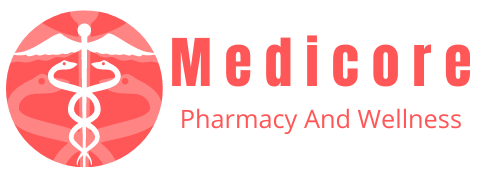
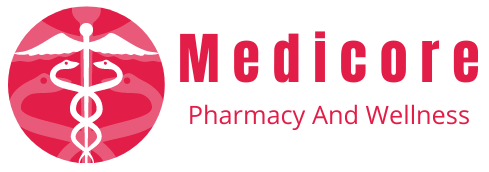
addMap

diff --git a/projects/client/src/Components/AuthForm/AuthForm.jsx b/projects/client/src/Components/AuthForm/AuthForm.jsx
@@ -1,20 +1,23 @@
 import { Formik } from 'formik';
 import React, { useEffect, useState } from 'react';
 import { LoginSchema, SignupSchema } from '../../utils/ValidationSchema';
-import { loginWithGoogleSlice, onLoginAsync, onRegister } from '../../Features/User/UserSlice';
+import {
+  loginWithGoogleSlice,
+  onLoginAsync,
+  onRegister,
+} from '../../Features/User/UserSlice';
 import { Link, Navigate, useNavigate } from 'react-router-dom';
 import { useDispatch, useSelector } from 'react-redux';
 import { FcGoogle } from 'react-icons/fc';
 import { Input } from './Input/Input';
 import { InputPassword } from './Input/InputPassword';
 
-
 // import { PhoneInput } from 'react-contact-number-input';
 
 export const AuthForm = (propss) => {
   const dispatch = useDispatch();
   const navigate = useNavigate();
-  const [isSubmitting, setIsSubmitting] = useState(false)
+  const [isSubmitting, setIsSubmitting] = useState(false);
   const key = process.env.REACT_APP_API_SECRET_KEY;
 
   useEffect(() => {
@@ -57,7 +60,7 @@ export const AuthForm = (propss) => {
       validationSchema={propss.isRegis ? SignupSchema : LoginSchema}
       onSubmit={async (values, { resetForm }) => {
         try {
-          setIsSubmitting(true)
+          setIsSubmitting(true);
           window.grecaptcha.ready(() => {
             window.grecaptcha
               .execute(key, { action: 'submit' })
@@ -69,11 +72,11 @@ export const AuthForm = (propss) => {
                 );
 
                 if (!propss.isRegis) {
-                  setIsSubmitting(false)
+                  setIsSubmitting(false);
                   if (isSuccess) return navigate('/');
                   resetForm();
                 } else {
-                  setIsSubmitting(false)
+                  setIsSubmitting(false);
                   if (isSuccess) return navigate('/login');
                 }
               });
@@ -178,29 +181,16 @@ export const AuthForm = (propss) => {
             {propss.isRegis ? 'Register' : 'Login'}
           </button>
           <div className="btnOther w-full text-[13px] font-bold ">
-            {/* <div className="font-bold rounded-xl py-[8px] w-full  border border-[#898989]  my-[10px] flex items-center">
-              <div
-                // onClick={() => {
-                //   dispatch(onLoginWithGoogle());
-                // }}
-                className="flex w-full justify-center gap-3 cursor-pointer"
-              >
-                <FcGoogle size={'24px'} />
-                <p>
-                  {propss.isRegis ? 'Sign up with ' : 'Sign in with  '}
-                  Google
-                </p>
-              </div>
-            </div> */}
-             <button
-             type='button'
+            <button
+              type="button"
               onClick={() => {
                 dispatch(loginWithGoogleSlice());
               }}
               className="btn btn-outline rounded-xl btn-secondary w-full"
             >
-              <FcGoogle size={25} /> {propss.isRegis ? 'Login with ' : 'Sign in with  '}
-                  Google
+              <FcGoogle size={25} />{' '}
+              {propss.isRegis ? 'Login with ' : 'Sign in with  '}
+              Google
             </button>
           </div>
         </form>

diff --git a/projects/client/src/Components/Layout/Sidebar.jsx b/projects/client/src/Components/Layout/Sidebar.jsx
@@ -1,7 +1,7 @@
 import { Link, useNavigate } from 'react-router-dom';
 import { useDispatch, useSelector } from 'react-redux';
 import { logoutAsync, onSaveUser } from '../../Features/User/UserSlice';
-import Logo from '../../utils/images/logoHealthyMed.svg';
+import Logo from '../../utils/images/Medicore.png';
 import TransactionIcon from '../../utils/images/Transaction.svg';
 import { BiSolidReport } from 'react-icons/bi';
 import { GiMedicines } from 'react-icons/gi';
@@ -26,8 +26,8 @@ export const Sidebar = () => {
     <div className="fixed sm:w-[80px] lg:w-[250px]  border  border-[#808080] sm:min-h-[100vh] sm:flex sm:flex-col justify-between bottom-0 w-[100vw] text-[#000000]">
       <div className="flex sm:flex-col gap-[0.5em] items-center lg:items-start  flex-row">
         <Link to={'/'} className="w-full">
-          <div className="cardSidebar sm:flex rounded-[50px] gap-[20px] text-[18px] p-[13px] font-bold hover:bg-[#8899a6] hover:bg-opacity-202 hidden justify-center ">
-            <img className="h-10 px-2" src={Logo} alt="" />
+          <div className="cardSidebar sm:flex rounded-[50px] gap-[20px] h-20 p-[13px] font-bold hover:bg-[#8899a6] hover:bg-opacity-202 hidden justify-center ">
+            <img className="h-18 px-2" src={Logo} alt="" />
           </div>
         </Link>
         <Link to={'/'} className="w-full">

diff --git a/projects/client/src/Pages/ProductListAdmin.jsx b/projects/client/src/Pages/ProductListAdmin.jsx
@@ -16,7 +16,6 @@ export default function ProductListAdmin() {
   const dispatch = useDispatch();
   const [searchParams, setSearchParams] = useSearchParams();
   let queryParams = {};
-
   const [page, setPage] = useState(Number(searchParams.get('page')) || 1);
   const [search, setSearch] = useState(searchParams.get('search') || '');
   const [sortType, setSortType] = useState(searchParams.get('sortType') || '');
@@ -24,7 +23,6 @@ export default function ProductListAdmin() {
     searchParams.get('sortOrder') || '',
   );
   const [category, setCategory] = useState(searchParams.get('category') || '');
-
   const [productId, setProductId] = useState(null);
   const [isDeleted, setIsDeleted] = useState(false);
   const ProductsStore = useSelector((state) => state?.products?.products);
@@ -105,7 +103,7 @@ export default function ProductListAdmin() {
           className="sticky bottom-6 bg-primary w-fit rounded-full hover:cursor-pointer"
           onClick={() => navigate('/products/new')}
         >
-          <MdAdd size={40} />
+          <MdAdd size={40} color='white' />
         </div>
       </div>
       <DeleteModal productId={productId} isDeleted={setIsDeleted} />

diff --git a/projects/client/tailwind.config.js b/projects/client/tailwind.config.js
@@ -17,16 +17,27 @@ module.exports = {
     themes: [
       // 'emerald',
       {
+        // mytheme: {
+        //   primary: '#ff5757',
+        //   secondary: '#769afc',
+        //   accent: '#96dd11',
+        //   neutral: '#15181e',
+        //   'base-100': '#ffffff',
+        //   info: '#72acf3',
+        //   success: '#27e7a1',
+        //   warning: '#b6910c',
+        //   error: '#e73b32',
+        // },
         mytheme: {
-          primary: '#ff5757',
-          secondary: '#769afc',
-          accent: '#96dd11',
-          neutral: '#15181e',
+          primary: '#e11d48',
+          secondary: '#0284c7',
+          accent: '#0d9488',
+          neutral: '#2a323c',
           'base-100': '#ffffff',
-          info: '#72acf3',
-          success: '#27e7a1',
-          warning: '#b6910c',
-          error: '#e73b32',
+          info: '#3abff8',
+          success: '#36d399',
+          warning: '#fbbd23',
+          error: '#fb7185',
         },
       },
     ],

diff --git a/projects/client/src/Pages/Landing.jsx b/projects/client/src/Pages/Landing.jsx
@@ -11,6 +11,7 @@ import { useState } from 'react';
 import { FileUploader } from 'react-drag-drop-files';
 import { addToCartAsync } from '../Features/Cart/CartSlice';
 import ProductListSkl from '../Components/Skeleton/ProductListSkl';
+import StoreLocation from '../Components/Landing/StoreLocation';
 
 export default function Landing() {
   const dispatch = useDispatch();
@@ -131,6 +132,16 @@ export default function Landing() {
         </div>
         <div className="flex overflow-auto w-[72%] p-4 space-x-4 rounded-box">
           {productMap ? <>{productMap}</> : <ProductListSkl limit={limit} />}
+        </div>
+      </div>
+      <div className=" mt-10 flex justify-end pr-[10%]">
+        <article className="prose">
+          <h3>Location</h3>
+        </article>
+      </div>
+      <div className="w-full flex justify-center p-5">
+        <div className="w-[70%] ">
+          <StoreLocation />
         </div>
       </div>
     </>

diff --git a/projects/client/src/Components/Layout/Navbar.jsx b/projects/client/src/Components/Layout/Navbar.jsx
@@ -1,6 +1,6 @@
 import React, { useEffect, useState } from 'react';
-import Logo from '../../utils/images/logoHealthyMed.svg';
-import Logo1 from '../../utils/images/Medicore.png'
+import Logo from '../../utils/images/Medicore.png';
+import Logo1 from '../../utils/images/Medicore.png';
 import { MdOutlineMenu } from 'react-icons/md';
 import { useDispatch, useSelector } from 'react-redux';
 import { Link, useLocation } from 'react-router-dom';
@@ -12,7 +12,7 @@ import { getCartUserAsync } from '../../Features/Cart/CartSlice';
 export default function NavBar() {
   let dispatch = useDispatch();
   const { user } = useSelector((state) => state.user);
-  console.log("🚀 ~ file: Navbar.jsx:15 ~ NavBar ~ user:", user)
+  console.log('🚀 ~ file: Navbar.jsx:15 ~ NavBar ~ user:', user);
   const { totalCart } = useSelector((state) => state.cart);
 
   useEffect(() => {

diff --git a/projects/client/src/Components/Landing/StoreLocation.jsx b/projects/client/src/Components/Landing/StoreLocation.jsx
@@ -2,7 +2,7 @@ import { useState } from 'react';
 import Map, { NavigationControl, Marker, Popup } from 'react-map-gl/maplibre';
 import maplibregl from 'maplibre-gl';
 import 'maplibre-gl/dist/maplibre-gl.css';
-import jumbotronImage from '../utils/images/pharmacy-store.jpg';
+import jumbotronImage from '../../utils/images/pharmacy-store.jpg';
 
 export default function StoreLocation() {
   const [showPopup, setShowPopup] = useState(true);
@@ -15,7 +15,7 @@ export default function StoreLocation() {
           latitude: -6.302263455530211,
           zoom: 14,
         }}
-        style={{ width: '100%', height: '800px' }}
+        style={{ width: '100%', height: '500px' }}
         mapStyle={`https://api.maptiler.com/maps/streets/style.json?key=${process.env.REACT_APP_API_MAPTILER}`}
       >
         <NavigationControl position="top-right" />

diff --git a/projects/client/src/Pages/Login.jsx b/projects/client/src/Pages/Login.jsx
@@ -3,7 +3,7 @@ import { useDispatch, useSelector } from 'react-redux';
 import { Link, Navigate } from 'react-router-dom';
 import { AuthForm } from '../Components/AuthForm/AuthForm';
 import LoginImage from '../utils/images/Frame.svg';
-import Logo from '../utils/images/logoHealthyMed.svg';
+import Logo from '../utils/images/Medicore.png';
 import { loginWithGoogleSlice } from '../Features/User/UserSlice';
 import { FcGoogle } from 'react-icons/fc';
 
@@ -37,7 +37,7 @@ export const Login = () => {
       <div className="formSide flex-1 flex flex-col h-[100vh] justify-center">
         <Link to={'/'}>
           <img
-            className="absolute h-[2em] sm:h-[2.5em] xl:h-[4em] top-5 left-5 "
+            className="absolute h-[2em] sm:h-[3em] xl:h-[6em] top-5 left-5 "
             src={Logo}
             alt=""
           />

diff --git a/projects/client/src/Components/Products/ProductCard.jsx b/projects/client/src/Components/Products/ProductCard.jsx
@@ -76,7 +76,7 @@ export default function ProductCard(props) {
                 onClick={() => {
                   handleAddToCart();
                 }}
-                className="btn btn-xs md:btn-sm btn-accent"
+                className="btn btn-xs md:btn-sm btn-primary btn-outline"
               >
                 {reqPrescripton ? 'prescription' : 'add to cart'}
               </button>

diff --git a/projects/client/src/Components/Transaction/TransactionCard.jsx b/projects/client/src/Components/Transaction/TransactionCard.jsx
@@ -1,6 +1,6 @@
 import React, { useState, useEffect, useRef } from 'react';
 import { useDispatch } from 'react-redux';
-import Logo from '../../utils/images/logoHealthyMed.svg';
+import Logo from '../../utils/images/Medicore.png';
 import { Link } from 'react-router-dom';
 import TransactionModal from './TransactionModal';
 import InputUserFile from '../Profile/Input/InputUserFile';

diff --git a/projects/client/public/index.html b/projects/client/public/index.html
@@ -1,8 +1,8 @@
-<!DOCTYPE html>
+<!doctype html>
 <html lang="en">
   <head>
     <meta charset="utf-8" />
-    <link rel="icon" href="%PUBLIC_URL%/logo-healtymed.ico" />
+    <link rel="icon" href="%PUBLIC_URL%/medicore_icon.ico" />
     <meta name="viewport" content="width=device-width, initial-scale=1" />
     <meta name="theme-color" content="#000000" />
     <meta

diff --git a/projects/client/src/Components/Transaction/TransactionCardAdmin.jsx b/projects/client/src/Components/Transaction/TransactionCardAdmin.jsx
@@ -1,7 +1,7 @@
 import React, { useState, useEffect } from 'react';
 
 import { useDispatch } from 'react-redux';
-import Logo from '../../utils/images/logoHealthyMed.svg';
+import Logo from '../../utils/images/Medicore.png';
 import { Link } from 'react-router-dom';
 import { BiReceipt } from 'react-icons/bi';
 import TransactionModal from './TransactionModal';
